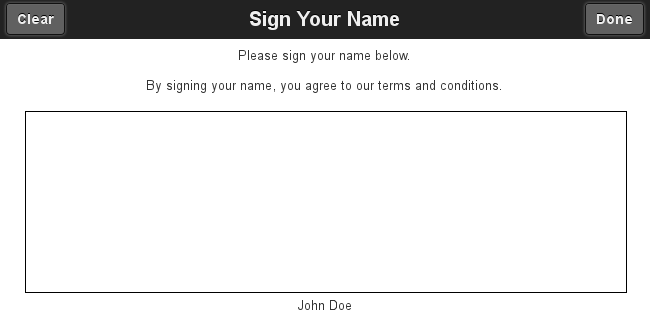
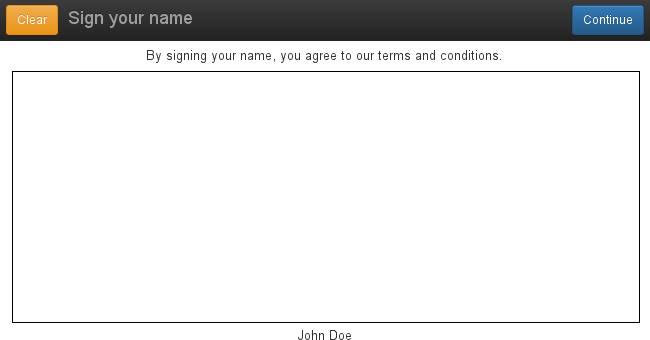
signature responsiveness

diff --git a/_docs/fields.md b/_docs/fields.md
@@ -242,8 +242,19 @@ yesno: user_signature_verified
 ---
 {% endhighlight %}
 
-Signatures can be inserted into assembled [documents] as well as
+Signatures can be also be inserted into assembled [documents] in the
+same way.  They can also be inserted into [.docx fill-in forms] and
 [PDF fill-in forms].
+
+On a small screen, users need as much of the screen as possible to
+write their signature.  For this reason, **docassemble** will reduce
+the size of the navigation bar and put the [`question`] text into the
+navigation bar.  For this reason, you should make sure your
+[`question`] text is very brief -- no longer than "Sign your name."
+You should also make the [`subquestion`] text as brief as possible.
+Although you may be developing your app on a desktop or laptop
+monitor, your users are probably using smartphones, so test your app
+on a smartphone.
 
 # <a name="fields"></a>Setting multiple variables with one screen
 
@@ -1053,6 +1064,7 @@ why this needs to be done manually as opposed to automatically:
 [list]: https://docs.python.org/2/tutorial/datastructures.html
 [dictionary]: https://docs.python.org/2/tutorial/datastructures.html#dictionaries
 [dictionaries]: https://docs.python.org/2/tutorial/datastructures.html#dictionaries
+[.docx fill-in forms]: {{ site.baseurl }}/docs/documents.html#signature docx
 [PDF fill-in forms]: {{ site.baseurl }}/docs/documents.html#signature
 [documents]: {{ site.baseurl }}/docs/markup.html#inserting uploaded images
 [`generic object` modifier]: {{ site.baseurl }}/docs/modifiers.html#generic object

diff --git a/_docs/security.md b/_docs/security.md
@@ -8,20 +8,21 @@ short_title: Security
 
 # Importance of using HTTPS
 
-It is important to deploy **docassemble** using HTTPS rather than
-HTTP.  **docassemble** sends passwords and security keys over the
-network in plain text.
+It is important for security purposes to deploy **docassemble** using
+HTTPS rather than HTTP.  If you use HTTP, passwords and security keys
+will be sent over the network in plain text.
 
 # <a name="server_encryption"></a>Server-side information storage
 
 User passwords and interview answers are stored in a SQL database in
-encrypted form.
+encrypted form, unless the [`multi_user`] variable is set to `True`,
+in which case the answers are not encrypted.
 
 Uploaded and assembled documents are stored on the server (and on
 [Amazon S3], if [S3] is being used, or [Microsoft Azure], if
 [Azure blob storage] is being used) without encryption.  These
 documents cannot be accessed from the internet without an appropriate
-security key in the cookie.
+access key in the cookie.
 
 When a user clicks an "Exit" button, **docassemble** will delete all of
 the information related to the interview from the server, including
@@ -75,3 +76,4 @@ for an interview belonging to a user who logs in with Google or Facebook.
 [S3]: https://aws.amazon.com/s3/
 [Microsoft Azure]: https://azure.microsoft.com/
 [Azure blob storage]: https://azure.microsoft.com/en-us/services/storage/blobs/
+[`multi_user`]: {{ site.baseurl }}/docs/special.html#multi_user

diff --git a/_docs/documents.md b/_docs/documents.md
@@ -636,12 +636,12 @@ But this will correct the problem:
 
 ![straight quotes]({{ site.baseurl }}/img/jinja2-straight-quotes.png)
 
-Images can be inserted into .docx files.  This is illustrated in the
-example above: the variable `user.signature` is a graphics image (an
-image of the user's signature created with the [`signature` block]).
-You can also use the `[FILE ...]` markup syntax to [insert an image].
-However, do not mix image references with other text inside of a
-single field.
+<a name="signature docx"></a>Images can be inserted into .docx files.
+This is illustrated in the example above: the variable
+`user.signature` is a graphics image (an image of the user's signature
+created with the [`signature` block]).  You can also use the
+`[FILE ...]` markup syntax to [insert an image].  However, do not mix
+image references with other text inside of a single field.
 
 When you use `docx template file`, the user is provided with both a
 PDF file and a .docx file.  The PDF file is generated by converting
